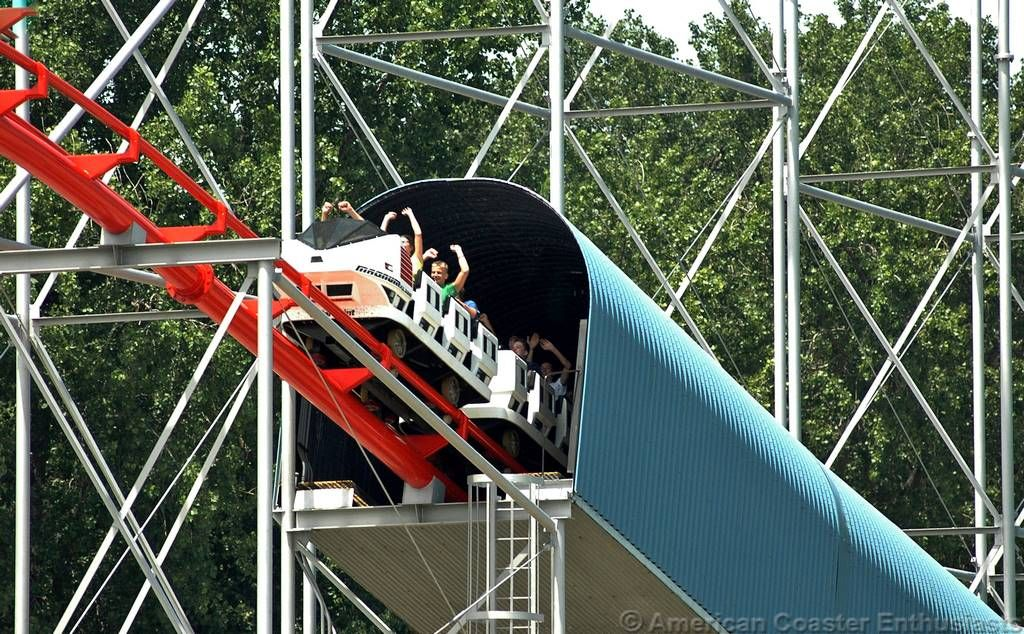
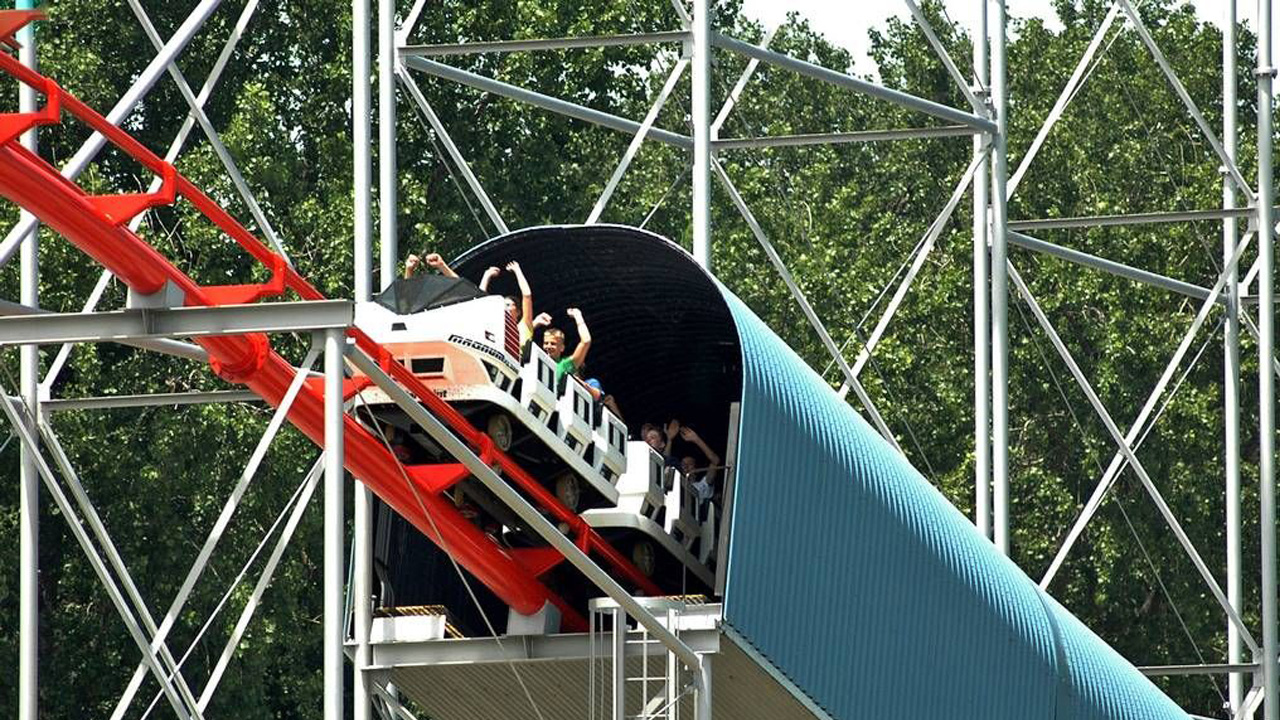
final touches!!!

diff --git a/index.html b/index.html
@@ -167,8 +167,9 @@
         <!-- Call to action-->
         <section class="page-section bg-dark text-white">
             <div class="container px-4 px-lg-5 text-center">
-                <h2 class="mb-4">Free Download at Start Bootstrap!</h2>
-                <a class="btn btn-light btn-xl" href="https://startbootstrap.com/theme/creative/">Download Now!</a>
+                <h2 class="mb-4">Get tickets to Cedar Point to try these rides out yourself!</h2>
+                <a class="btn btn-light btn-xl" href="https://www.cedarpoint.com/daily-tickets" target="_blank">Get Tickets!</a>
+
             </div>
         </section>
         <!-- Contact-->
@@ -178,7 +179,7 @@
                     <div class="col-lg-8 col-xl-6 text-center">
                         <h2 class="mt-0">3 Worst Rides!</h2>
                         <hr class="divider" />
-                        <p class="text-muted mb-5">Ready to start your next project with us? Send us a messages and we will get back to you as soon as possible!</p>
+                        <p class="text-muted mb-5">Although Cedar Point offers many fantastic rides for everyone to enjoy, there are some rides that are just unbearable!</p>
                     </div>
                 </div>
                 
@@ -193,7 +194,7 @@
                             </div>
                             <div class="carousel-inner">
                               <div class="carousel-item active">
-                                <img src="img/corkscrew.JPG" class="d-block w-100">
+                                <img src="img/corkscrew.jpg" class="d-block w-100">
                                 <div class="carousel-caption d-none d-md-block">
                                   <h5>Corkscrew</h5>
                                   <p>Corkscrew is incredibly rough and bumpy. Many people find the ride extremely unenjoyable.</p>
@@ -230,7 +231,7 @@
         </section>
         <!-- Footer-->
         <footer class="bg-light py-5">
-            <div class="container px-4 px-lg-5"><div class="small text-center text-muted">Copyright &copy; 2023 - Company Name</div></div>
+            <div class="container px-4 px-lg-5"><div class="small text-center text-muted">Copyright &copy; 2024 - Looped In Inc.</div></div>
         </footer>
         <!-- Bootstrap core JS-->
         <script src="https://cdn.jsdelivr.net/npm/bootstrap@5.2.3/dist/js/bootstrap.bundle.min.js"></script>

diff --git a/css/custom.css b/css/custom.css
@@ -52,6 +52,7 @@ header.masthead h1 {
 }
 header.masthead p {
    font-size: 50px;  
+   color: rgb(255, 255, 255);
 }
 body {
     color: #ffffff;
@@ -62,6 +63,8 @@ body {
 .btn-primary:hover, .btn-primary:active, .btn-primary:focus {
     background-color: #3d6372 !important;
 }
+
+
 
 /********************/
 /******* COLORS ******/
@@ -93,6 +96,16 @@ hr.divider {
 .bg-primary {
     background-color: #2f586a !important;
 }
+
+.carousel-caption {
+    color: #fff;
+    text-shadow: 3px 3px 6px rgba(0, 0, 0, 0.7);
+    background-color: rgba(0, 0, 0, 0.5); /* Semi-transparent black background */
+    padding: 10px; /* Adds space around the text */
+    border-radius: 5px; /* Optional: Rounds the corners of the background */
+}
+
+
 
 /********************/
 /******* CRITERIA ******/
@@ -133,9 +146,23 @@ hr.divider {
     background: #2d5767cb;
 }
 
+#mainNav .navbar-brand {
+    color: rgba(255, 255, 255, -3.3);
+}
+
 /********************/
 /******* 3 WORST RIDES ******/
 /********************/
 body {
     color: #2f586a;
+}
+
+.text-muted {
+    --bs-text-opacity: 1;
+    color: #2f586a !important;
+}
+
+.bg-dark {
+    --bs-bg-opacity: 1;
+    background-color: #2f586a !important;
 }
